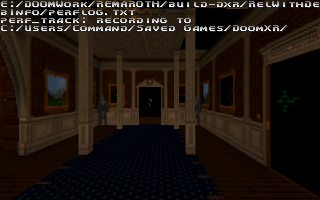
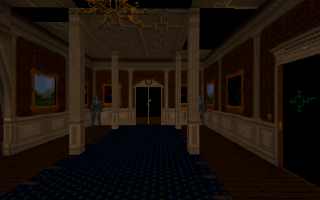
The first true side-by-side: same spot, both engines, in colour
The reference pair for STUDY1's start is committed. Both frames are the same
position in the entrance hall, and the port is plainly right in substance --
same columns, same doorway, same carpet, same chandelier.

Frames now go through the game's own palette. The first version dumped palette
INDICES as greyscale and compared them against REMAROTH's RGB luminance, which
is not the same quantity at all: index 200 is not brighter than index 50, it is
a different colour. Any measurement from that comparison would have been noise
presented as evidence, so it was thrown away rather than reported. The palette
is g_palette_rgb_ptr (0x85488), 6-bit VGA values scaled by 255/63 -- not <<2,
which would never reach white.

THREE DIFFERENCES, stated as observations rather than diagnoses:

  1. WE ARE MUCH BRIGHTER. ROTH.C is nearly black where we render full detail
     -- wall panelling, paintings, wallpaper. This is a new finding: there was
     no reference to notice it against until now, and it is large.

  2. OUR HORIZONTAL FIELD OF VIEW IS WIDER. We show paintings on both side
     walls that the original does not have in frame at all.

  3. LESS CEILING, proportionally: the original's ceiling and chandelier fill
     roughly the top 30%, ours about 15%.

Aspects are 1.333 against 1.600. Point 3 suggests a narrower VERTICAL field of
view on our side, which is the opposite direction from what "ceilings look too
[…]

diff --git a/tools/oraclelog/oraclelog.c b/tools/oraclelog/oraclelog.c
@@ -305,16 +305,44 @@ static void on_frame_game(const struct roth_api_v1 *api)
 static void on_compose_tick(const struct roth_api_v1 *api, uint8_t *pixels,
                             uint32_t width, uint32_t height)
 {
-    (void)api;
     if (g_shots_done >= g_shots_wanted || pixels == NULL) return;
     if (width == 0 || height == 0 || width > 4096 || height > 4096) return;
 
+    /* WRITE RGB, NOT INDICES. The first version dumped palette indices as a
+     * greyscale PGM, and comparing those against REMAROTH's RGB output is
+     * meaningless -- index 200 is not "brighter" than index 50, it is simply a
+     * different colour. Any measurement taken from that comparison would have
+     * been noise dressed up as evidence.
+     *
+     * So the frame goes through the game's own palette, g_palette_rgb_ptr
+     * (0x85488), which is 256 RGB triples of 6-BIT VGA values: they went straight
+     * to the DAC, so 0..63 rather than 0..255. Scaling by 255/63 rather than <<2
+     * keeps white actually white.
+     *
+     * If the palette pointer is not up yet the frame is skipped rather than
+     * written wrongly -- a missing frame is obvious, a mis-coloured one is not.
+     */
+    const uint32_t palptr = api->game_ram->u32(0x85488u);
+    if (palptr == 0) return;
+    const uint8_t *pal = (const uint8_t *)(uintptr_t)palptr;
+
     char name[64];
-    snprintf(name, sizeof name, "shot_%05d.pgm", g_shots_done);
+    snprintf(name, sizeof name, "shot_%05d.ppm", g_shots_done);
     FILE *f = fopen(name, "wb");
     if (f == NULL) return;
-    fprintf(f, "P5\n%u %u\n255\n", width, height);
-    fwrite(pixels, 1, (size_t)width * (size_t)height, f);
+    fprintf(f, "P6\n%u %u\n255\n", width, height);
+
+    const size_t n = (size_t)width * (size_t)height;
+    for (size_t i = 0; i < n; i++)
+    {
+        const uint8_t *e = pal + (size_t)pixels[i] * 3u;
+        const uint8_t rgb[3] = {
+            (uint8_t)((e[0] * 255u) / 63u),
+            (uint8_t)((e[1] * 255u) / 63u),
+            (uint8_t)((e[2] * 255u) / 63u),
+        };
+        fwrite(rgb, 1, 3, f);
+    }
     fclose(f);
 
     if (g_shots_done == 0)
